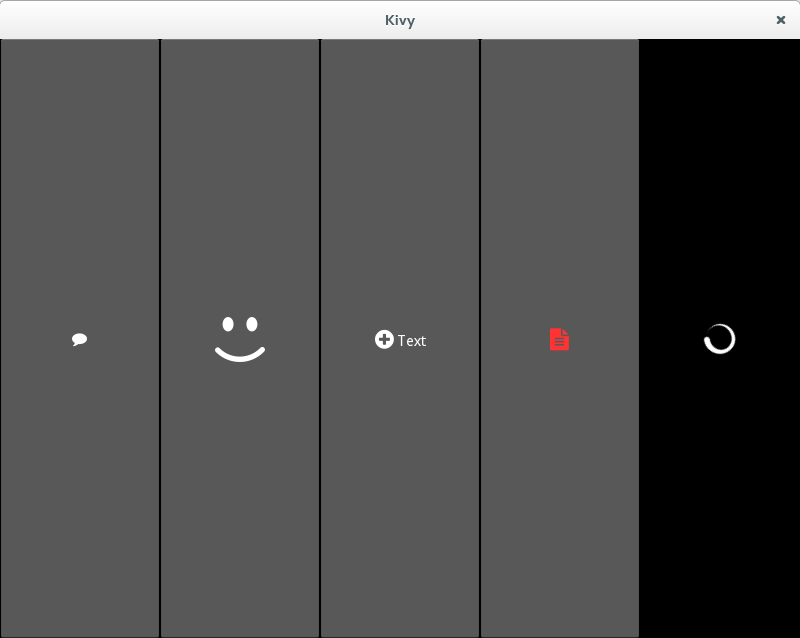
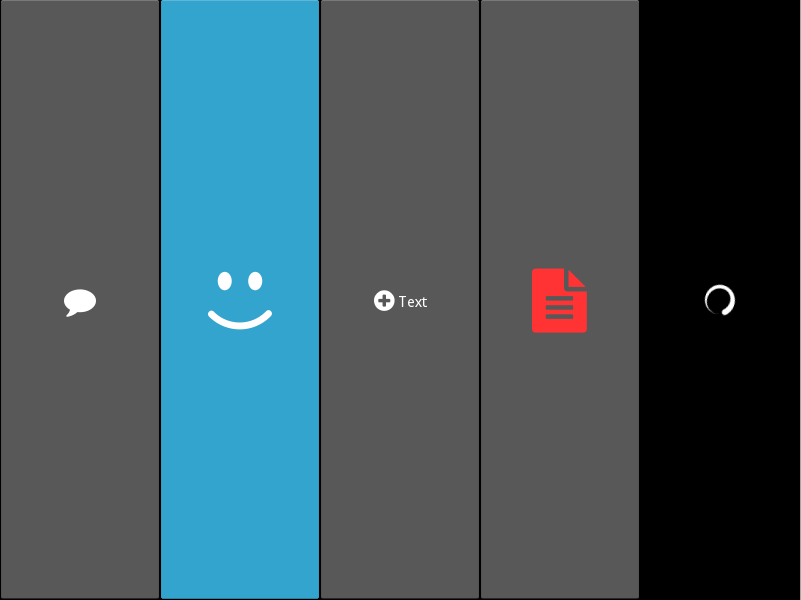
SCreenshot refactoring

diff --git a/__init__.py b/__init__.py
@@ -17,18 +17,18 @@ if __name__ == '__main__':
 BoxLayout:
     Button:
         markup: True
-        text: "%s"%(icon('icon-comment'))
+        text: "%s"%(icon('icon-comment', 32))
     Button:
         markup: True
-        text: "%s"%(icon('icon-emo-happy', 50))
+        text: "%s"%(icon('icon-emo-happy', 64))
 
     Button:
         markup: True
-        text: "%s Text"%(icon('icon-plus-circled', 22))
+        text: "%s Text"%(icon('icon-plus-circled', 24))
 
     Button:
         markup: True
-        text: "%s"%(icon('icon-doc-text-inv', 22, 'ff3333'))
+        text: "%s"%(icon('icon-doc-text-inv', 64, 'ff3333'))
 
     Label:
         id: _anim
